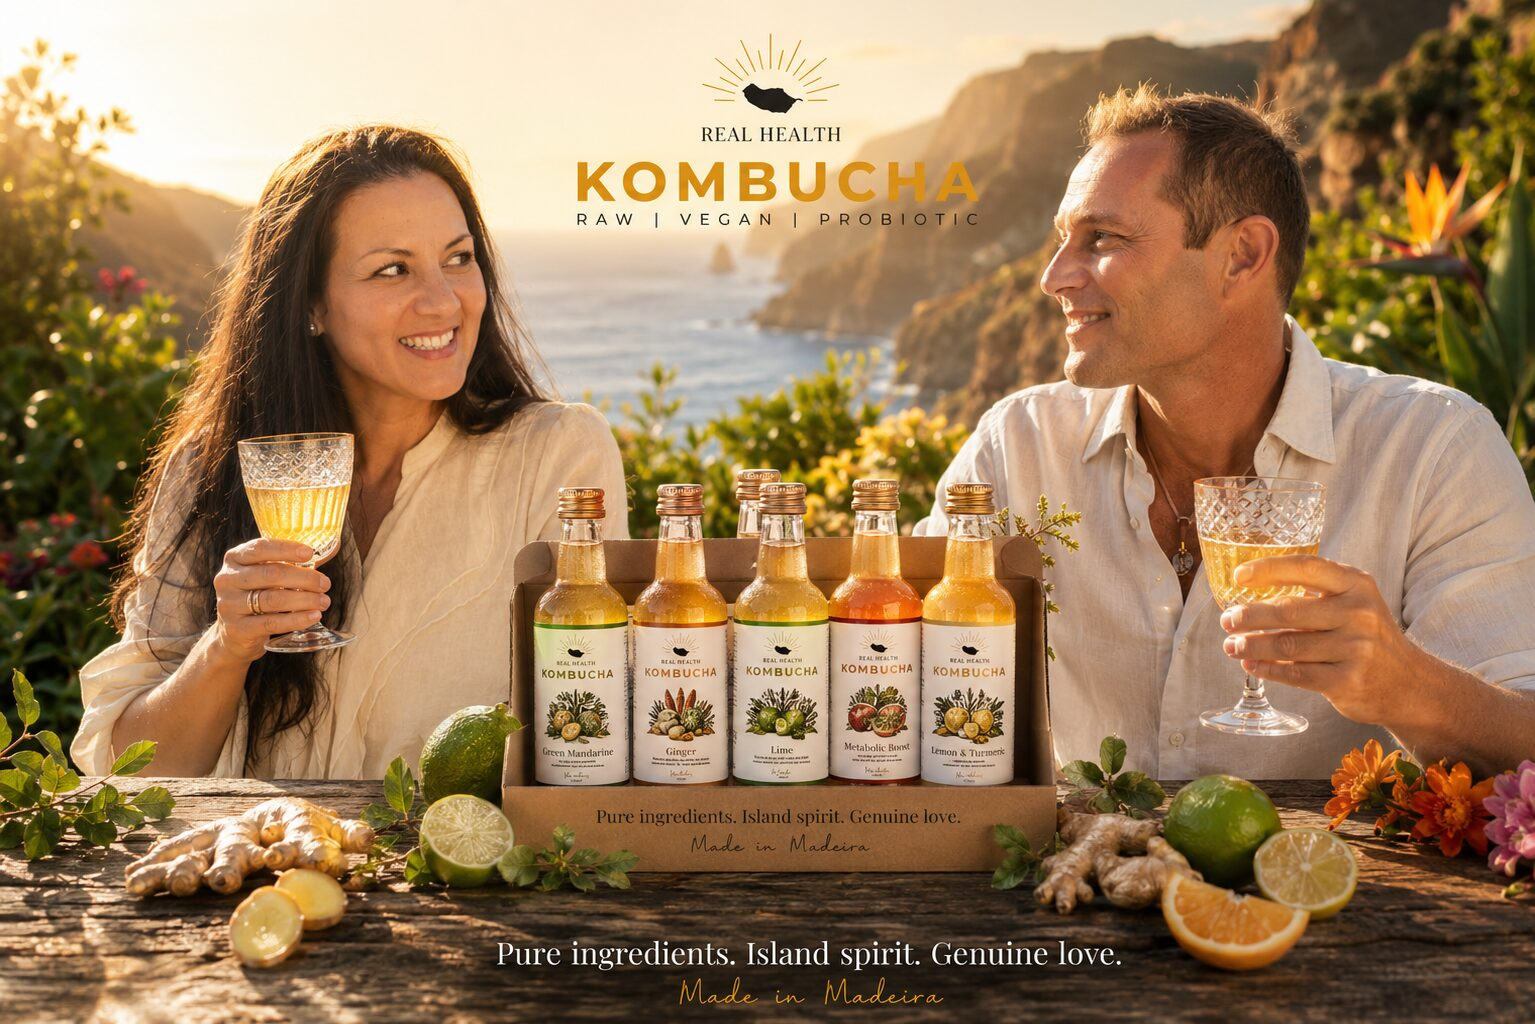
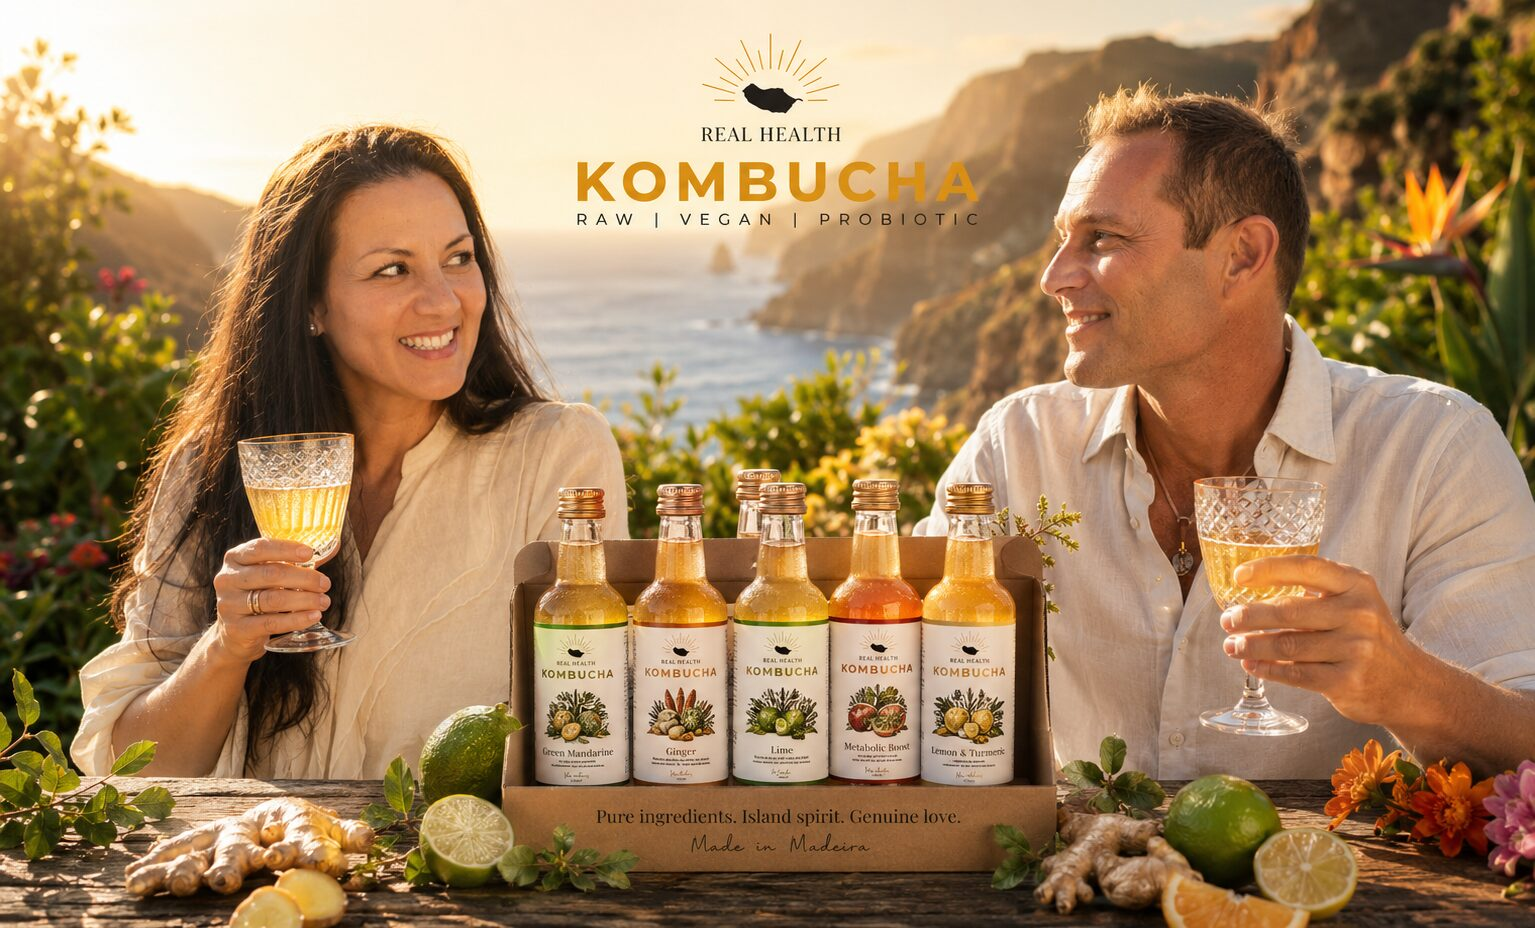
fix: final review wave (hero crop, up-to figures, WhatsApp chat, maps pin)
- Home hero: crop the baked-in caption strip off the tasting-box photo
  (poster logo stays: it sits level with both faces); keep both faces in
  frame with object-position; prepare_images.py can rebuild single photos.
- Restaurants hero facts and the 2.5x money-back highlight now say
  "up to"/"até" or name the 200 ml glass price they assume.
- WhatsApp: order/talk/message buttons (Home, Restaurants, Order, Contact,
  footer) open a direct chat at wa.me/351913000048; the group invite is
  linked only on Contact as "WhatsApp group: news & new batches".
- Google Maps link points at the house coordinates.
- Photo bands are capped at the photo's own width (forest either side),
  so they are not upscaled on wide screens.
- PT Contact heading: non-breaking hyphen in "visite-nos".
- Small bottles heading shows €5.00 / 5,00 €.
- Order page 1 L note: "Great for sharing" / "Ideal para partilhar".
- PT badge: "Naturalmente efervescente".

diff --git a/assets/css/styles.css b/assets/css/styles.css
@@ -254,8 +254,10 @@ main { display: block; }
 .hero--short .hero__media { min-height: 440px; }
 
 /* Full-width sunny photo band; optional caption overlay. */
-.photo-band { position: relative; height: clamp(320px, 42vw, 560px); overflow: hidden; background: var(--stone); }
-.photo-band img { width: 100%; height: 100%; object-fit: cover; }
+.photo-band { position: relative; height: clamp(320px, 42vw, 560px); overflow: hidden; background: var(--forest); }
+/* Never wider than the photo's own pixels (1190px), so it is not upscaled on wide
+   screens; the forest background shows either side. */
+.photo-band img { display: block; width: 100%; max-width: 1190px; height: 100%; margin: 0 auto; object-fit: cover; }
 .photo-band__caption {
   position: absolute; left: 0; right: 0; bottom: 0; padding: 48px var(--gutter);
   background: linear-gradient(to top, rgba(14, 28, 18, .65), rgba(14, 28, 18, 0));
@@ -393,6 +395,8 @@ main { display: block; }
 
 /* ── HOME ── */
 .home-hero .display em { display: inline-block; }
+/* Keep both faces in frame when the wide hero photo is cropped to the column. */
+.home-hero .hero__media img { object-position: 57% center; }
 .home-proof { padding: 44px 0; }
 .proof { display: grid; grid-template-columns: repeat(3, 1fr); }
 .proof li {
@@ -523,6 +527,10 @@ main { display: block; }
   font-family: var(--serif); font-size: 40px; font-weight: 300; line-height: 1;
   color: var(--gold); white-space: nowrap; font-variant-numeric: lining-nums;
 }
+.rest-facts__upto {
+  display: block; margin-bottom: 6px; font-family: var(--sans); font-size: 11px; font-weight: 500;
+  letter-spacing: .18em; text-transform: uppercase; color: var(--gold);
+}
 .rest-facts__label { font-size: 12px; font-weight: 300; line-height: 1.45; color: var(--on-dark-muted); max-width: 150px; }
 
 /* Why: hairline grid of four. */
@@ -604,7 +612,7 @@ main { display: block; }
 .rest-month__note { max-width: 720px; margin: 36px auto 0; }
 
 .rest-band { height: clamp(300px, 36vw, 500px); }
-.rest-band img { object-position: center 50%; }
+.rest-band img { max-width: 1000px; object-position: center 50%; }  /* 1000px source */
 
 /* Ordering app: five points + three steps. */
 .app-points li { padding: 22px 0 22px 28px; border-bottom: 1px solid var(--stone); position: relative; }
@@ -871,6 +879,7 @@ main { display: block; }
 .contact-item__value { margin-top: 8px; font-size: 14px; overflow-wrap: anywhere; }
 .contact-item__value a { color: var(--forest); }
 .contact-item .btn-row { margin-top: auto; padding-top: 28px; }
+.contact-item__group { margin-top: 18px; font-size: 14px; }
 .contact-details { margin-top: 24px; border: 1px solid var(--stone); }
 .contact-detail { padding: 36px; background: var(--off-white); }
 .contact-detail .eyebrow { margin-bottom: 12px; }

diff --git a/src/content.py b/src/content.py
@@ -70,11 +70,14 @@ CONTENT = {
     "links": {
         "review": "https://search.google.com/local/writereview?placeid=ChIJtYnk8XlZYAwRhT9_o66JcHE",
         "signup": "https://roel-heremans.github.io/kombucha-orders-app/?signup",
+        # Direct chat with Roel's number: every "order" / "talk to us" / "message us" button.
+        "whatsapp_chat": "https://wa.me/351913000048",
+        # Group invite: news & new batches only (Contact page and footer).
         "whatsapp": "https://chat.whatsapp.com/HFERsCciyntHTvYT8nuv6R",
         "instagram": "https://www.instagram.com/realhealthkombucha/",
         "email": "realhealthkombucha@gmail.com",
         "phone": "+351 913 000 048",
-        "maps": "https://maps.google.com/?q=Caminho+do+Jang%C3%A3o+154,+9360-523+Ponta+do+Sol",
+        "maps": "https://www.google.com/maps/search/?api=1&query=32.693336%2C-17.083575",  # the house
         # All Google reviews (business listing on Google Maps).
         "reviews_all": "https://www.google.com/maps/search/?api=1&query=Real+Health+Kombucha"
                        "&query_place_id=ChIJtYnk8XlZYAwRhT9_o66JcHE",
@@ -239,8 +242,8 @@ CONTENT = {
                  "label": {"en": "margin on a 200 ml glass at {price}",
                            "pt": "de margem num copo de 200 ml a {price}"}},
                 {"num": {"en": "2.5×", "pt": "2,5×"},
-                 "label": {"en": "your money back on every bottle",
-                           "pt": "o seu investimento de volta, em cada garrafa"}},
+                 "label": {"en": "your money back per bottle, at {price} per 200 ml glass",
+                           "pt": "o seu investimento de volta por garrafa, a {price} por copo de 200 ml"}},
             ],
             "restaurants_text": {
                 "en": "Five glasses from every bottle, reordering in one tap, and personal "
@@ -318,13 +321,15 @@ CONTENT = {
                       "Sol, entregue por nós e encomendada em segundos pelo telemóvel.",
             },
             "primary": {"en": "Become a partner", "pt": "Torne-se parceiro"},
+            "up_to": {"en": "up to", "pt": "até"},
             "whatsapp": {"en": "Talk to us on WhatsApp", "pt": "Fale connosco no WhatsApp"},
             # Key figures under the buttons. "{max}" = prices.max_profit_per_bottle,
             # "{partners}" = number of partners.
             "facts": [
-                {"num": "{max}",
+                # "up_to" marks a best-case figure (200 ml glasses at glass_menu_price).
+                {"num": "{max}", "up_to": True,
                  "label": {"en": "profit per 1 L bottle", "pt": "de lucro por garrafa de 1 L"}},
-                {"num": "72%",
+                {"num": "72%", "up_to": True,
                  "label": {"en": "margin by the glass", "pt": "de margem a copo"}},
                 {"num": "{partners}",
                  "label": {"en": "restaurants & cafés already serve it",
@@ -401,8 +406,8 @@ CONTENT = {
                  "label": {"en": "margin at {price} per 200 ml glass",
                            "pt": "de margem a {price} por copo de 200 ml"}},
                 {"num": "{multiple}×",
-                 "label": {"en": "your money back on every bottle",
-                           "pt": "o seu investimento de volta, em cada garrafa"}},
+                 "label": {"en": "your money back per bottle, at {price} per 200 ml glass",
+                           "pt": "o seu investimento de volta por garrafa, a {price} por copo de 200 ml"}},
             ],
             "tip_label": {"en": "Tip", "pt": "Dica"},
             "tip": {
@@ -614,7 +619,7 @@ CONTENT = {
         "badges": [
             {"en": "Raw & unpasteurised", "pt": "Crua e não pasteurizada"},
             {"en": "Live cultures", "pt": "Culturas vivas"},
-            {"en": "Naturally sparkling", "pt": "Naturalmente gaseificada"},
+            {"en": "Naturally sparkling", "pt": "Naturalmente efervescente"},
             {"en": "Vegan", "pt": "Vegana"},
             {"en": "< 0.5% vol", "pt": "< 0,5% vol"},
         ],
@@ -637,6 +642,8 @@ CONTENT = {
             "heading_accent": {"en": "every flavour", "pt": "todos os sabores"},
             "bottle_1l": {"en": "1 L bottle", "pt": "Garrafa de 1 L"},
             "bottle_1l_note": {"en": "For serving by the glass", "pt": "Para servir ao copo"},
+            # Order page wording for the same bottle (home customers, not restaurants).
+            "bottle_1l_note_order": {"en": "Great for sharing", "pt": "Ideal para partilhar"},
             "bottle_270": {"en": "270 ml bottle", "pt": "Garrafa de 270 ml"},
             "bottle_270_note": {"en": "+ {deposit} deposit, refunded when you return the bottle",
                                 "pt": "+ {deposit} de depósito, reembolsado quando devolver a garrafa"},
@@ -947,12 +954,15 @@ CONTENT = {
         "ways": {
             "eyebrow": {"en": "Get in touch", "pt": "Fale connosco"},
             "heading": {"en": "Message us,", "pt": "Escreva-nos,"},
-            "heading_accent": {"en": "call or visit", "pt": "ligue ou visite-nos"},
+            # U+2011 (non-breaking hyphen): "visite-nos" never breaks at the hyphen.
+            "heading_accent": {"en": "call or visit", "pt": "ligue ou visite\u2011nos"},
             "whatsapp": {
                 "title": {"en": "WhatsApp", "pt": "WhatsApp"},
-                "text": {"en": "The quickest way to reach us, and to hear about new batches.",
-                         "pt": "A forma mais rápida de nos contactar e de saber dos novos lotes."},
+                "text": {"en": "The quickest way to reach us: message us directly.",
+                         "pt": "A forma mais rápida de nos contactar: escreva-nos diretamente."},
                 "button": {"en": "Open WhatsApp", "pt": "Abrir o WhatsApp"},
+                "group": {"en": "WhatsApp group: news & new batches",
+                          "pt": "Grupo WhatsApp: novidades e novos lotes"},
             },
             "instagram": {
                 "title": {"en": "Instagram", "pt": "Instagram"},

diff --git a/tests/test_restaurants.py b/tests/test_restaurants.py
@@ -18,7 +18,8 @@ NBSP = " "
 PARTNERS = ["Sun Spot", "Palm Spot", "Koa Spot", "Vegan World", "Casa Velha do Palheiro",
             "Casa Velha Tea House", "Balancal", "Buddha & Sakura"]
 SIGNUP = "https://roel-heremans.github.io/kombucha-orders-app/?signup"
-WHATSAPP = "https://chat.whatsapp.com/HFERsCciyntHTvYT8nuv6R"
+WHATSAPP = "https://wa.me/351913000048"   # direct chat; the group invite is Contact-only
+WHATSAPP_GROUP = "https://chat.whatsapp.com/HFERsCciyntHTvYT8nuv6R"
 
 # Spec section 2.3 (slide 10), EN formatting, in order.
 GLASS_ROWS = [
@@ -103,6 +104,8 @@ def test_bottle_table_exact(built, lang):
     text = _text(sec)
     assert fmt("€3.50", lang) in text and fmt("€1", lang) in text   # €3.50 + €1 deposit
     assert f"{fmt('€5.00', lang)}–{fmt('€5.70', lang)}" in text      # price it at €5.00–€5.70
+    heading = _text(re.search(r"<h2[^>]*>(.*?)</h2>", sec, re.S).group(1))
+    assert fmt("€5.00", lang) in heading, heading                     # two decimals, like the rest
 
 
 @LANGS
@@ -125,6 +128,7 @@ def test_hero_ctas(built, lang):
     primary = re.search(r'<a class="btn btn--gold"[^>]*href="([^"]+)"', hero)
     assert primary and H.unescape(primary.group(1)) == SIGNUP
     assert f'href="{WHATSAPP}"' in hero
+    assert WHATSAPP_GROUP not in hero
     head = _text(re.search(r"<h1[^>]*>(.*?)</h1>", hero, re.S).group(1))
     assert head == ("Kombucha that pays off on your menu" if lang == "en"
                     else "Kombucha que compensa no seu menu")
@@ -136,6 +140,7 @@ def test_closing_cta_signup_whatsapp_email(built, lang):
     cta = _section(html, "rest-cta")
     assert f'href="{H.escape(SIGNUP)}"' in cta or f'href="{SIGNUP}"' in cta
     assert f'href="{WHATSAPP}"' in cta
+    assert WHATSAPP_GROUP not in cta
     assert 'href="mailto:realhealthkombucha@gmail.com' in cta
 
 
@@ -270,3 +275,20 @@ def test_highlight_figures_tied_to_glass_table():
     assert multiple == 2.5 == r["money_back_multiple"]
     assert home[1]["num"] == {"en": f"{multiple}×", "pt": f"{multiple}×".replace(".", ",")}
     assert row["per_bottle"] == CONTENT["prices"]["max_profit_per_bottle"]
+
+
+@LANGS
+def test_hero_facts_say_up_to(built, lang):
+    """The best-case figures (200 ml glasses at €5.70) are never shown as unconditional."""
+    _, html = _page(built, lang)
+    facts = re.findall(r"<li>(.*?)</li>", _section(html, "rest-hero").split('class="rest-facts"')[1], re.S)
+    facts = [_text(f) for f in facts]
+    up = "up to" if lang == "en" else "até"
+    assert facts[0] == f"{up} {fmt('€20.50', lang)} " + (
+        "profit per 1 L bottle" if lang == "en" else "de lucro por garrafa de 1 L"), facts[0]
+    assert facts[1] == f"{up} 72% " + ("margin by the glass" if lang == "en" else "de margem a copo"), facts[1]
+    assert not facts[2].startswith(up)       # partner count is a plain fact
+    # The money-back multiple is tied to the 200 ml glass price it assumes.
+    text = _text(_section(html, "rest-glass"))
+    assert (f"at {fmt('€5.70', lang)} per 200 ml glass" if lang == "en"
+            else f"a {fmt('€5.70', lang)} por copo de 200 ml") in text

diff --git a/tools/prepare_images.py b/tools/prepare_images.py
@@ -1,6 +1,7 @@
 """Build every image the site uses into assets/img/ from Roel's source folders.
 
-Usage:  python tools/prepare_images.py
+Usage:  python tools/prepare_images.py [photo-target.jpg ...]
+        (no arguments: build everything; with names: rebuild only those photos)
 
 Sources (read-only, never written):
   ~/Documents/PersonalRepos/Kombucha/assets/01_images      photos
@@ -39,7 +40,10 @@ PHOTOS = [
     # AI product scenes (Roel's own campaign images). The 04_21_06 scene has an
     # "Original" bottle on the far right; the crop keeps only the six flavours.
     ("ChatGPT Image Jun 30, 2026, 04_21_06 PM.png", "six-flavours-coast-lineup.jpg", 1190, "1190x660+0+272", 82),
-    ("ChatGPT Image Jun 30, 2026, 04_27_12 PM.png", "roel-nina-tasting-box-coast.jpg", 1535, None, 82),
+    # Home hero: the bottom crop drops the baked-in caption strip (the tagline is
+    # already printed on the box). The poster logo at the top sits level with
+    # both faces, so it cannot be cropped off without cutting heads.
+    ("ChatGPT Image Jun 30, 2026, 04_27_12 PM.png", "roel-nina-tasting-box-coast.jpg", 1535, "1535x928+0+0", 82),
     ("ChatGPT Image Jun 30, 2026, 04_43_48 PM.png", "roel-nina-six-pack-coast.jpg", 1086, None, 82),
     ("ChatGPT Image Jun 30, 2026, 04_54_14 PM.png", "six-flavours-sunset-coast.jpg", 1086, None, 82),
     # Roel & Nina portraits (2026-02-21 series, no hot-tub shots).
@@ -203,7 +207,16 @@ def build_qr() -> Path:
     return out
 
 
-def main() -> int:
+def main(argv: list[str] | None = None) -> int:
+    """Build everything, or only the photos whose target names are passed."""
+    only = set(argv or [])
+    if only:
+        rows = [row for row in PHOTOS if row[1] in only]
+        if len(rows) != len(only):
+            raise SystemExit(f"unknown photo target(s): {sorted(only - {r[1] for r in rows})}")
+        for p in (build_photo(*row) for row in rows):
+            print(f"{p.relative_to(ROOT)}  {p.stat().st_size // 1024} KB")
+        return 0
     produced = build_logos()
     produced.append(build_qr())
     produced += [build_label(*row) for row in LABELS]
@@ -215,4 +228,4 @@ def main() -> int:
 
 
 if __name__ == "__main__":
-    sys.exit(main())
+    sys.exit(main(sys.argv[1:]))

diff --git a/tests/test_flavours_order.py b/tests/test_flavours_order.py
@@ -16,7 +16,8 @@ from orders import order_mailto
 PAGES = {p["id"]: p for p in CONTENT["pages"]}
 NBSP = " "
 SIGNUP = "https://roel-heremans.github.io/kombucha-orders-app/?signup"
-WHATSAPP = "https://chat.whatsapp.com/HFERsCciyntHTvYT8nuv6R"
+WHATSAPP = "https://wa.me/351913000048"   # direct chat; the group invite is Contact-only
+WHATSAPP_GROUP = "https://chat.whatsapp.com/HFERsCciyntHTvYT8nuv6R"
 REVIEW = "https://search.google.com/local/writereview?placeid=ChIJtYnk8XlZYAwRhT9_o66JcHE"
 LANGS = pytest.mark.parametrize("lang", ["en", "pt"])
 
@@ -142,6 +143,8 @@ def test_flavours_badges_sizes_and_footnote(built, lang):
     text = _text(_main(html))
     assert ("< 0.5% vol" if lang == "en" else "< 0,5% vol") in text
     assert ("Vegan" if lang == "en" else "Vegana") in text
+    assert ("Naturally sparkling" if lang == "en" else "Naturalmente efervescente") in text
+    assert "gaseificada" not in text
     sizes = _text(_section(html, "flavours-sizes"))
     assert fmt("€8.00", lang) in sizes and fmt("€3.50", lang) in sizes and fmt("€1", lang) in sizes
     assert "1 L" in sizes and "270 ml" in sizes
@@ -180,6 +183,9 @@ def test_order_mailto_round_trips(lang):
 @LANGS
 def test_order_prices(built, lang):
     text = _text(_section(_page(built, "order", lang), "order-prices"))
+    # The 1 L note on the Order page is for home customers; the restaurant wording stays on Flavours.
+    assert ("Great for sharing" if lang == "en" else "Ideal para partilhar") in text
+    assert ("by the glass" if lang == "en" else "ao copo") not in text
     assert fmt("€8.00", lang) in text and fmt("€3.50", lang) in text and fmt("€1", lang) in text
     assert "1 L" in text and "270 ml" in text
 
@@ -191,6 +197,7 @@ def test_order_how_to(built, lang):
     assert SIGNUP in hrefs
     assert WHATSAPP in hrefs
     assert order_mailto(lang) in hrefs
+    assert WHATSAPP_GROUP not in _page(built, "order", lang)   # orders go to the chat, not the group
     mail = next(h for h in hrefs if h.startswith("mailto:"))
     subject = urllib.parse.parse_qs(urllib.parse.urlsplit(mail).query)["subject"][0]
     assert subject == SUBJECT[lang]

diff --git a/tests/test_story_health_contact.py b/tests/test_story_health_contact.py
@@ -22,12 +22,16 @@ HEALTH_NOTE = {
     "pt": "Com base em investigação publicada sobre kombucha e alimentos fermentados. "
           "Não é uma alegação médica.",
 }
+WHATSAPP_CHAT = "https://wa.me/351913000048"
+WHATSAPP_GROUP = "https://chat.whatsapp.com/HFERsCciyntHTvYT8nuv6R"
+MAPS = "https://www.google.com/maps/search/?api=1&query=32.693336%2C-17.083575"   # the house
 CONTACT_HREFS = [
-    "https://chat.whatsapp.com/HFERsCciyntHTvYT8nuv6R",
+    WHATSAPP_CHAT,
+    WHATSAPP_GROUP,
     "https://www.instagram.com/realhealthkombucha/",
     "mailto:realhealthkombucha@gmail.com",
     "tel:+351913000048",
-    "https://maps.google.com/?q=Caminho+do+Jang%C3%A3o+154,+9360-523+Ponta+do+Sol",
+    MAPS,
 ]
 
 
@@ -169,6 +173,28 @@ def test_contact_external_links_open_new_tab(built, lang):
         if href.startswith("http"):
             tags = re.findall(rf'<a[^>]*href="{re.escape(H.escape(href))}"[^>]*>', main)
             assert tags and all('target="_blank"' in a and 'rel="noopener"' in a for a in tags), href
+
+
+@LANGS
+def test_contact_whatsapp_chat_primary_group_for_news(built, lang):
+    main = _main(_page(built, "contact", lang))
+    gold = re.search(r'<a class="btn btn--gold"[^>]*href="([^"]+)"', main)
+    assert gold and H.unescape(gold.group(1)) == WHATSAPP_CHAT
+    group = re.search(rf'<a[^>]*href="{re.escape(WHATSAPP_GROUP)}"[^>]*>(.*?)</a>', main, re.S)
+    assert group and _text(group.group(1)).startswith(
+        "WhatsApp group: news & new batches" if lang == "en" else "Grupo WhatsApp: novidades e novos lotes")
+
+
+def test_contact_maps_link_is_house_coordinates(built):
+    assert CONTENT["links"]["maps"] == MAPS
+    for lang in ("en", "pt"):
+        assert f'href="{H.escape(MAPS)}"' in _page(built, "contact", lang)
+
+
+def test_pt_contact_heading_does_not_break_at_hyphen(built):
+    h2 = re.search(r'<section class="section section--white contact-ways">.*?<h2[^>]*>(.*?)</h2>',
+                   _page(built, "contact", "pt"), re.S).group(1)
+    assert "visite\u2011nos" in h2 and "visite-nos" not in h2
 
 
 # ── All three ──

diff --git a/tests/test_home.py b/tests/test_home.py
@@ -129,6 +129,7 @@ def test_two_paths(built, lang):
     # Slide 10 highlights on the restaurant card.
     assert "72%" in _text(rest) and eur(5.7, lang) in _text(rest)
     assert ("2.5×" if lang == "en" else "2,5×") in _text(rest)
+    assert ("up to" if lang == "en" else "até") in _text(rest)
     r_href = re.search(r'<a[^>]*href="([^"]+)"', rest).group(1)
     h_href = re.search(r'<a[^>]*href="([^"]+)"', home).group(1)
     assert _target(f, r_href) == _page_file(built, "restaurants", lang)
@@ -191,8 +192,9 @@ def test_closing_cta(built, lang):
     if lang == "en":
         assert "Put Real Health Kombucha on your menu" in _text(cta)
     assert HOME["cta"]["heading"][lang] in _text(cta)
-    href = re.search(r'<a[^>]*class="btn[^"]*"[^>]*href="([^"]+)"', cta).group(1)
-    assert _target(f, href) == _page_file(built, "restaurants", lang)
+    hrefs = re.findall(r'<a[^>]*class="btn[^"]*"[^>]*href="([^"]+)"', cta)
+    assert _target(f, hrefs[0]) == _page_file(built, "restaurants", lang)
+    assert hrefs[1] == CONTENT["links"]["whatsapp_chat"] == "https://wa.me/351913000048"
 
 
 def test_pt_home_has_no_english_section_copy(built):

diff --git a/tests/test_site_integrity.py b/tests/test_site_integrity.py
@@ -135,3 +135,18 @@ def test_integrity_scan_covers_all_pages_and_redirects(built):
     want |= {(built / old / "index.html").resolve() for old in CONTENT["redirects"]}
     assert len(want) == 14 + 4
     assert want <= scanned, want - scanned
+
+
+def test_whatsapp_group_only_on_contact(built):
+    """Order / talk-to-us buttons open a direct chat (wa.me); the group invite is
+    linked only from the Contact pages, labelled as news & new batches."""
+    group = "chat.whatsapp.com"
+    pages_with_group = []
+    for page in sorted(built.rglob("index.html")):
+        html = _read(page)
+        for tag in re.findall(r'<a\b[^>]*class="btn[^"]*"[^>]*>', html):
+            assert group not in tag, (page, tag)
+        if group in html:
+            pages_with_group.append(page.relative_to(built).as_posix())
+    assert sorted(pages_with_group) == ["contact/index.html", "pt/contacto/index.html"], pages_with_group
+    assert any("wa.me/351913000048" in _read(p) for p in built.rglob("order/index.html"))

diff --git a/tests/test_layout.py b/tests/test_layout.py
@@ -118,7 +118,7 @@ def test_footer_contents(built, lang):
         f = _file(built, page_id, lang)
         footer = _section(f.read_text(), "footer", "site-footer")
         assert f'href="{LINKS["instagram"]}"' in footer
-        assert f'href="{LINKS["whatsapp"]}"' in footer
+        assert f'href="{LINKS["whatsapp_chat"]}"' in footer
         assert f'href="mailto:{LINKS["email"]}"' in footer
         assert f"© {year} Real Health Kombucha" in footer
         assert CONTENT["footer_tagline"][lang] in footer
